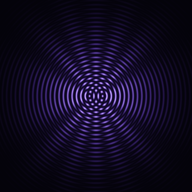
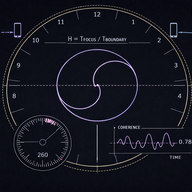
Snap to Orbit button; all panels/tabs snap off screen during use except Reset + Snap to Orbit; new home screen glyph

Changed region(s): [[0.0, 0.0, 1.0, 0.9062]]

diff --git a/index.html b/index.html
@@ -166,6 +166,20 @@
   #soo-panel .eq{display:flex;gap:2px;height:56px;align-items:flex-end;}
   #soo-panel .eq input{writing-mode:vertical-lr;direction:rtl;width:16px;height:52px;}
   #lockbar{white-space:nowrap;max-width:96vw;overflow:hidden;text-overflow:ellipsis;}
+  #controls button#btn-snap{border-color:rgba(124,255,155,0.6);color:var(--ok);}
+  #controls button#btn-snap.locked{background:rgba(124,255,155,0.18);}
+  /* In use: everything snaps off screen except Reset + Snap to Orbit */
+  #hud,#factors,#legend,#lockbar,#soo-panel,.edge-tab,#tab-soo,#controls button{transition:transform .3s cubic-bezier(.2,.8,.2,1),opacity .3s;}
+  body.in-use #hud{transform:translateX(calc(-100% - 40px)) !important;opacity:0;}
+  body.in-use #legend{transform:translateX(calc(-100% - 40px)) !important;opacity:0;}
+  body.in-use #factors{transform:translateX(calc(100% + 40px)) !important;opacity:0;}
+  body.in-use #tab-hud{transform:translateX(-100%);opacity:0;}
+  body.in-use #tab-factors{transform:translateX(100%);opacity:0;}
+  body.in-use #lockbar{transform:translate(-50%,200%) !important;opacity:0;}
+  body.in-use #soo-panel{transform:translate(-50%,calc(100% + 120px)) !important;}
+  body.in-use #tab-soo{transform:translate(-50%,300%);opacity:0;}
+  body.in-use #controls button:not(#btn-reset):not(#btn-snap){transform:translateY(-160%);opacity:0;pointer-events:none;}
+  body.in-use #hud,body.in-use #factors,body.in-use #legend,body.in-use #lockbar,body.in-use #soo-panel,body.in-use .edge-tab,body.in-use #tab-soo{pointer-events:none;}
   #lb-chain.pulse{animation:sentpulse .6s ease-out;}
   @keyframes sentpulse{0%{color:#7cff9b;text-shadow:0 0 8px #7cff9b;}100%{text-shadow:none;}}
 </style>
@@ -204,6 +218,7 @@
 
 <div id="controls">
   <button id="btn-reset" class="danger">Reset</button>
+  <button id="btn-snap" class="snap">Snap to Orbit</button>
   <button id="btn-pause" class="moire">Pause</button>
   <button id="btn-sight">Sight Pole</button>
   <button id="btn-showtip" class="toggle" data-key="tip">Fingertip</button>
@@ -2182,6 +2197,28 @@ setInterval(() => SooUI.status(), 150);
   const set = open => { p.classList.toggle("open", open); t.textContent = open ? "SOO ▾" : "SOO ▴"; };
   t.addEventListener("click", () => { const o = !p.classList.contains("open"); set(o); slog("panel:soo", { open: o }); });
   set(false);
+}
+
+/* Snap to Orbit: lock the orbit onto the sextant target now and pull the gates home */
+function snapToOrbitNow(via) {
+  const target = SOO.solarAngle - SOO.horizonAngle;
+  SOO.orbitAngle = target; SOO.orbitLocked = true;
+  const r = SOO.radius;
+  if (r > 0.1) { SOO.state = "FAILURE"; sooSetState("RECOVERY", "snap to orbit"); }
+  slog("soo:snap", { via, angle_mrad: S_milli(target), radius_milli: S_milli(r) });
+  moireToast("Snapped to orbit · " + (target * RAD).toFixed(1) + "°");
+}
+document.getElementById("btn-snap").addEventListener("click", () => snapToOrbitNow("button"));
+setInterval(() => document.getElementById("btn-snap").classList.toggle("locked", SOO.orbitLocked), 200);
+
+/* In use: all panels and tabs snap off screen while the pad is touched; back 1.2 s after release */
+{
+  let t = null;
+  const on = () => { clearTimeout(t); document.body.classList.add("in-use"); };
+  const off = () => { clearTimeout(t); t = setTimeout(() => document.body.classList.remove("in-use"), 1200); };
+  canvas.addEventListener("pointerdown", on);
+  canvas.addEventListener("pointerup", off);
+  canvas.addEventListener("pointercancel", off);
 }
 
 /* Ring → audio */

diff --git a/sw.js b/sw.js
@@ -1,5 +1,5 @@
 // Offline cache: the app makes no network calls, so cache-first is safe.
-const CACHE = "invarianttap-v3";
+const CACHE = "invarianttap-v4";
 const FILES = ["./", "./index.html", "./sentinel_dot.js", "./manifest.webmanifest", "./icon-180.png", "./icon-192.png", "./icon-512.png"];
 self.addEventListener("install", e => { e.waitUntil(caches.open(CACHE).then(c => c.addAll(FILES)).catch(() => {})); self.skipWaiting(); });
 self.addEventListener("activate", e => e.waitUntil(caches.keys().then(ks =>
